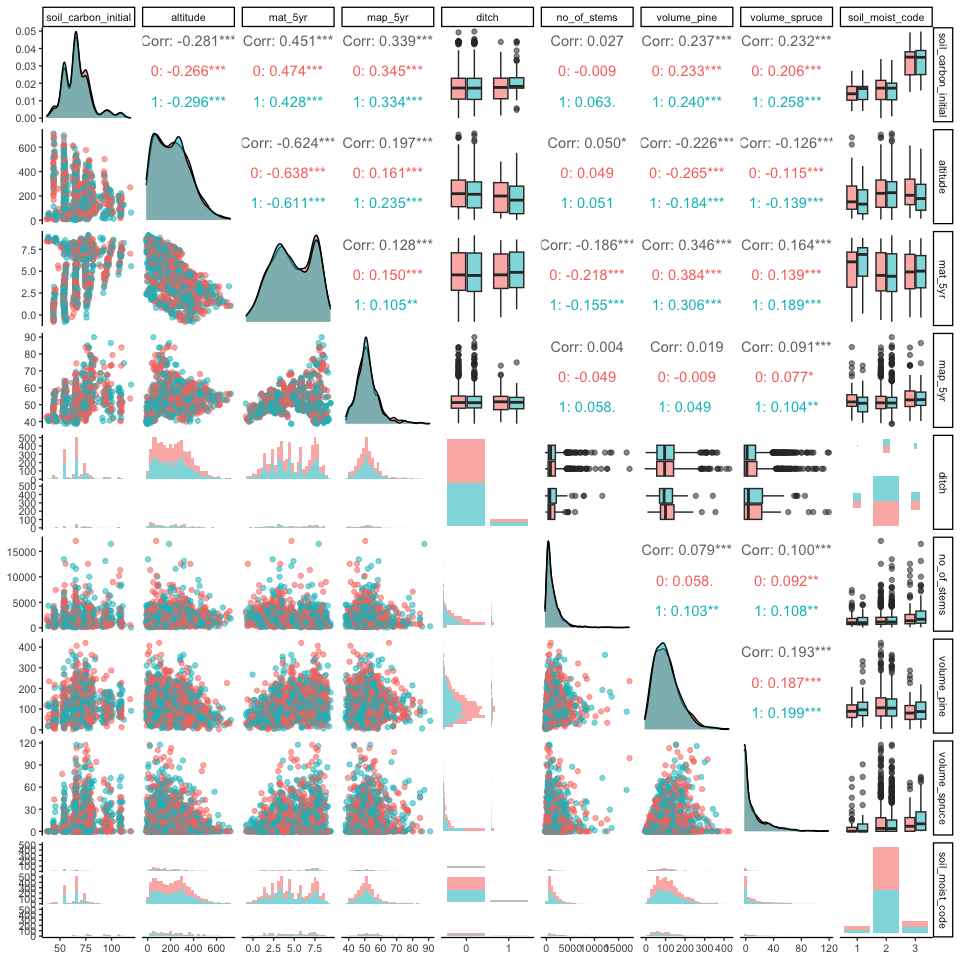
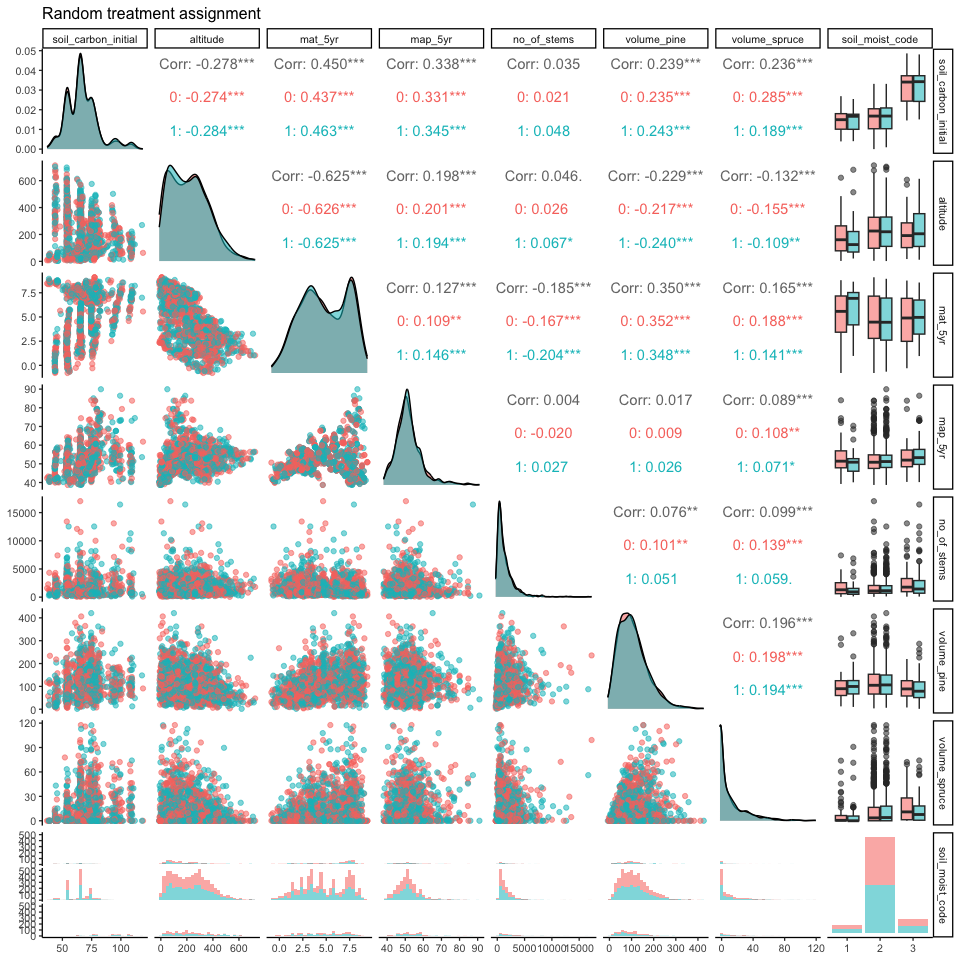
more plots

diff --git a/code/notebooks/2024-03-13_explore-initial-soil-c.md b/code/notebooks/2024-03-13_explore-initial-soil-c.md
@@ -1,9 +1,9 @@
 Exploring initial soil carbon…
 ================
 eleanorjackson
-13 March, 2024
+18 March, 2024
 
-We noticed that the distribution of intial soil carbon didn’t seem to
+We noticed that the distribution of initial soil carbon didn’t seem to
 change between treated and untreated groups when we were biasing
 treatment assignment.
 
@@ -77,10 +77,11 @@ one_run_alt$df_assigned[[1]] %>%
   mutate(ditch = as.factor(ditch),
          soil_moist_code = as.ordered(soil_moist_code)) %>% 
   select(tr, soil_carbon_initial, altitude,
-                      mat_5yr, map_5yr, ditch, no_of_stems, volume_pine,
+                      mat_5yr, map_5yr, no_of_stems, volume_pine,
                       volume_spruce, soil_moist_code) %>% 
-  ggpairs(columns = 2:10, progress = FALSE,
-          mapping = aes(colour = as.factor(tr), alpha = 0.5))
+  ggpairs(columns = 2:9, progress = FALSE,
+          mapping = aes(colour = as.factor(tr), alpha = 0.5)) +
+  ggtitle("Correlated with altitude")
 ```
 
 ![](figures/2024-03-13_explore-initial-soil-c/unnamed-chunk-2-1.png)<!-- -->
@@ -107,10 +108,11 @@ one_run_reg$df_assigned[[1]] %>%
   mutate(ditch = as.factor(ditch),
          soil_moist_code = as.ordered(soil_moist_code)) %>% 
   select(tr, soil_carbon_initial, altitude,
-                      mat_5yr, map_5yr, ditch, no_of_stems, volume_pine,
+                      mat_5yr, map_5yr, no_of_stems, volume_pine,
                       volume_spruce, soil_moist_code) %>% 
-  ggpairs(columns = 2:10, progress = FALSE,
-          mapping = aes(colour = as.factor(tr), alpha = 0.5))
+  ggpairs(columns = 2:9, progress = FALSE,
+          mapping = aes(colour = as.factor(tr), alpha = 0.5)) +
+  ggtitle("Correlated with region/latitude")
 ```
 
 ![](figures/2024-03-13_explore-initial-soil-c/unnamed-chunk-4-1.png)<!-- -->
@@ -137,10 +139,45 @@ one_run_rand$df_assigned[[1]] %>%
   mutate(ditch = as.factor(ditch),
          soil_moist_code = as.ordered(soil_moist_code)) %>% 
   select(tr, soil_carbon_initial, altitude,
-                      mat_5yr, map_5yr, ditch, no_of_stems, volume_pine,
+                      mat_5yr, map_5yr, no_of_stems, volume_pine,
                       volume_spruce, soil_moist_code) %>% 
-  ggpairs(columns = 2:10, progress = FALSE,
-          mapping = aes(colour = as.factor(tr), alpha = 0.5))
+  ggpairs(columns = 2:9, progress = FALSE,
+          mapping = aes(colour = as.factor(tr), alpha = 0.5)) +
+  ggtitle("Random treatment assignment")
 ```
 
 ![](figures/2024-03-13_explore-initial-soil-c/unnamed-chunk-6-1.png)<!-- -->
+
+``` r
+ggplot(clean_data) + 
+  geom_point(aes(y = total_soil_carbon, x = nord_wgs84, colour = soil_moist_code)) +
+  scale_colour_viridis_c()
+```
+
+![](figures/2024-03-13_explore-initial-soil-c/unnamed-chunk-7-1.png)<!-- -->
+
+``` r
+ggplot(clean_data) + 
+  geom_point(aes(y = total_soil_carbon, x = nord_wgs84, colour = forest_domain_name)) 
+```
+
+![](figures/2024-03-13_explore-initial-soil-c/unnamed-chunk-8-1.png)<!-- -->
+
+``` r
+one_run_alt$df_assigned[[1]] %>% 
+  ggplot() + 
+  geom_point(aes(y = soil_carbon_initial, x = altitude,
+                 colour = as.factor(tr))) 
+```
+
+![](figures/2024-03-13_explore-initial-soil-c/unnamed-chunk-9-1.png)<!-- -->
+
+``` r
+one_run_alt$df_assigned[[1]] %>% 
+  ggplot() + 
+  geom_point(aes(y = soil_carbon_initial, x = altitude, colour = volume_pine,
+                 shape = as.factor(tr))) +
+  scale_colour_viridis_c()
+```
+
+![](figures/2024-03-13_explore-initial-soil-c/unnamed-chunk-9-2.png)<!-- -->
